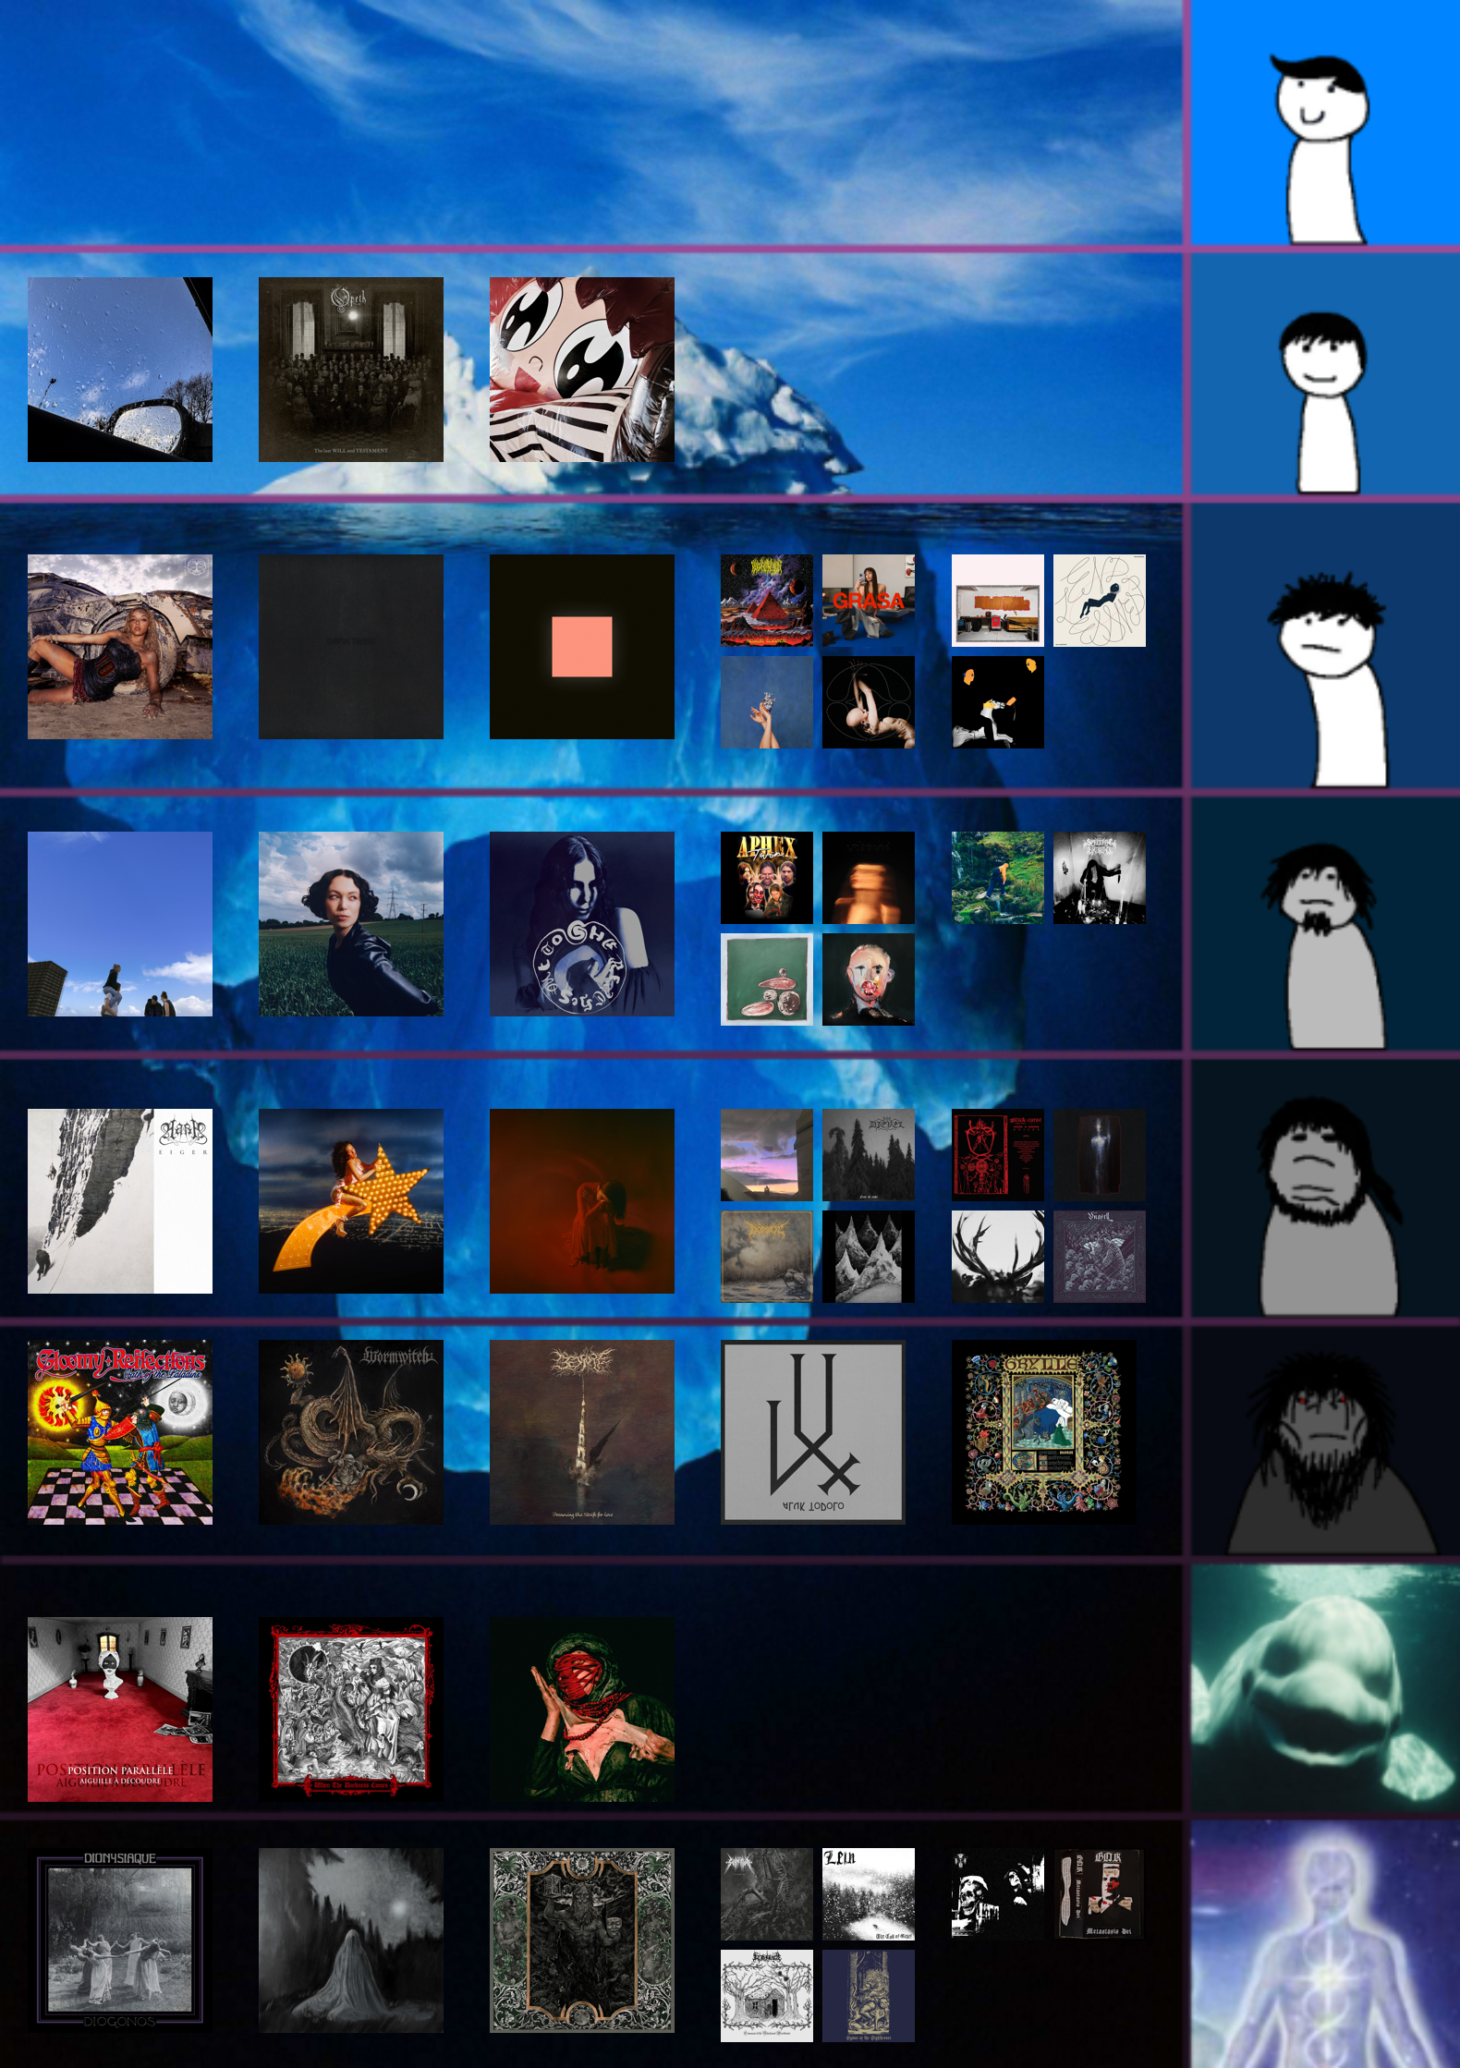
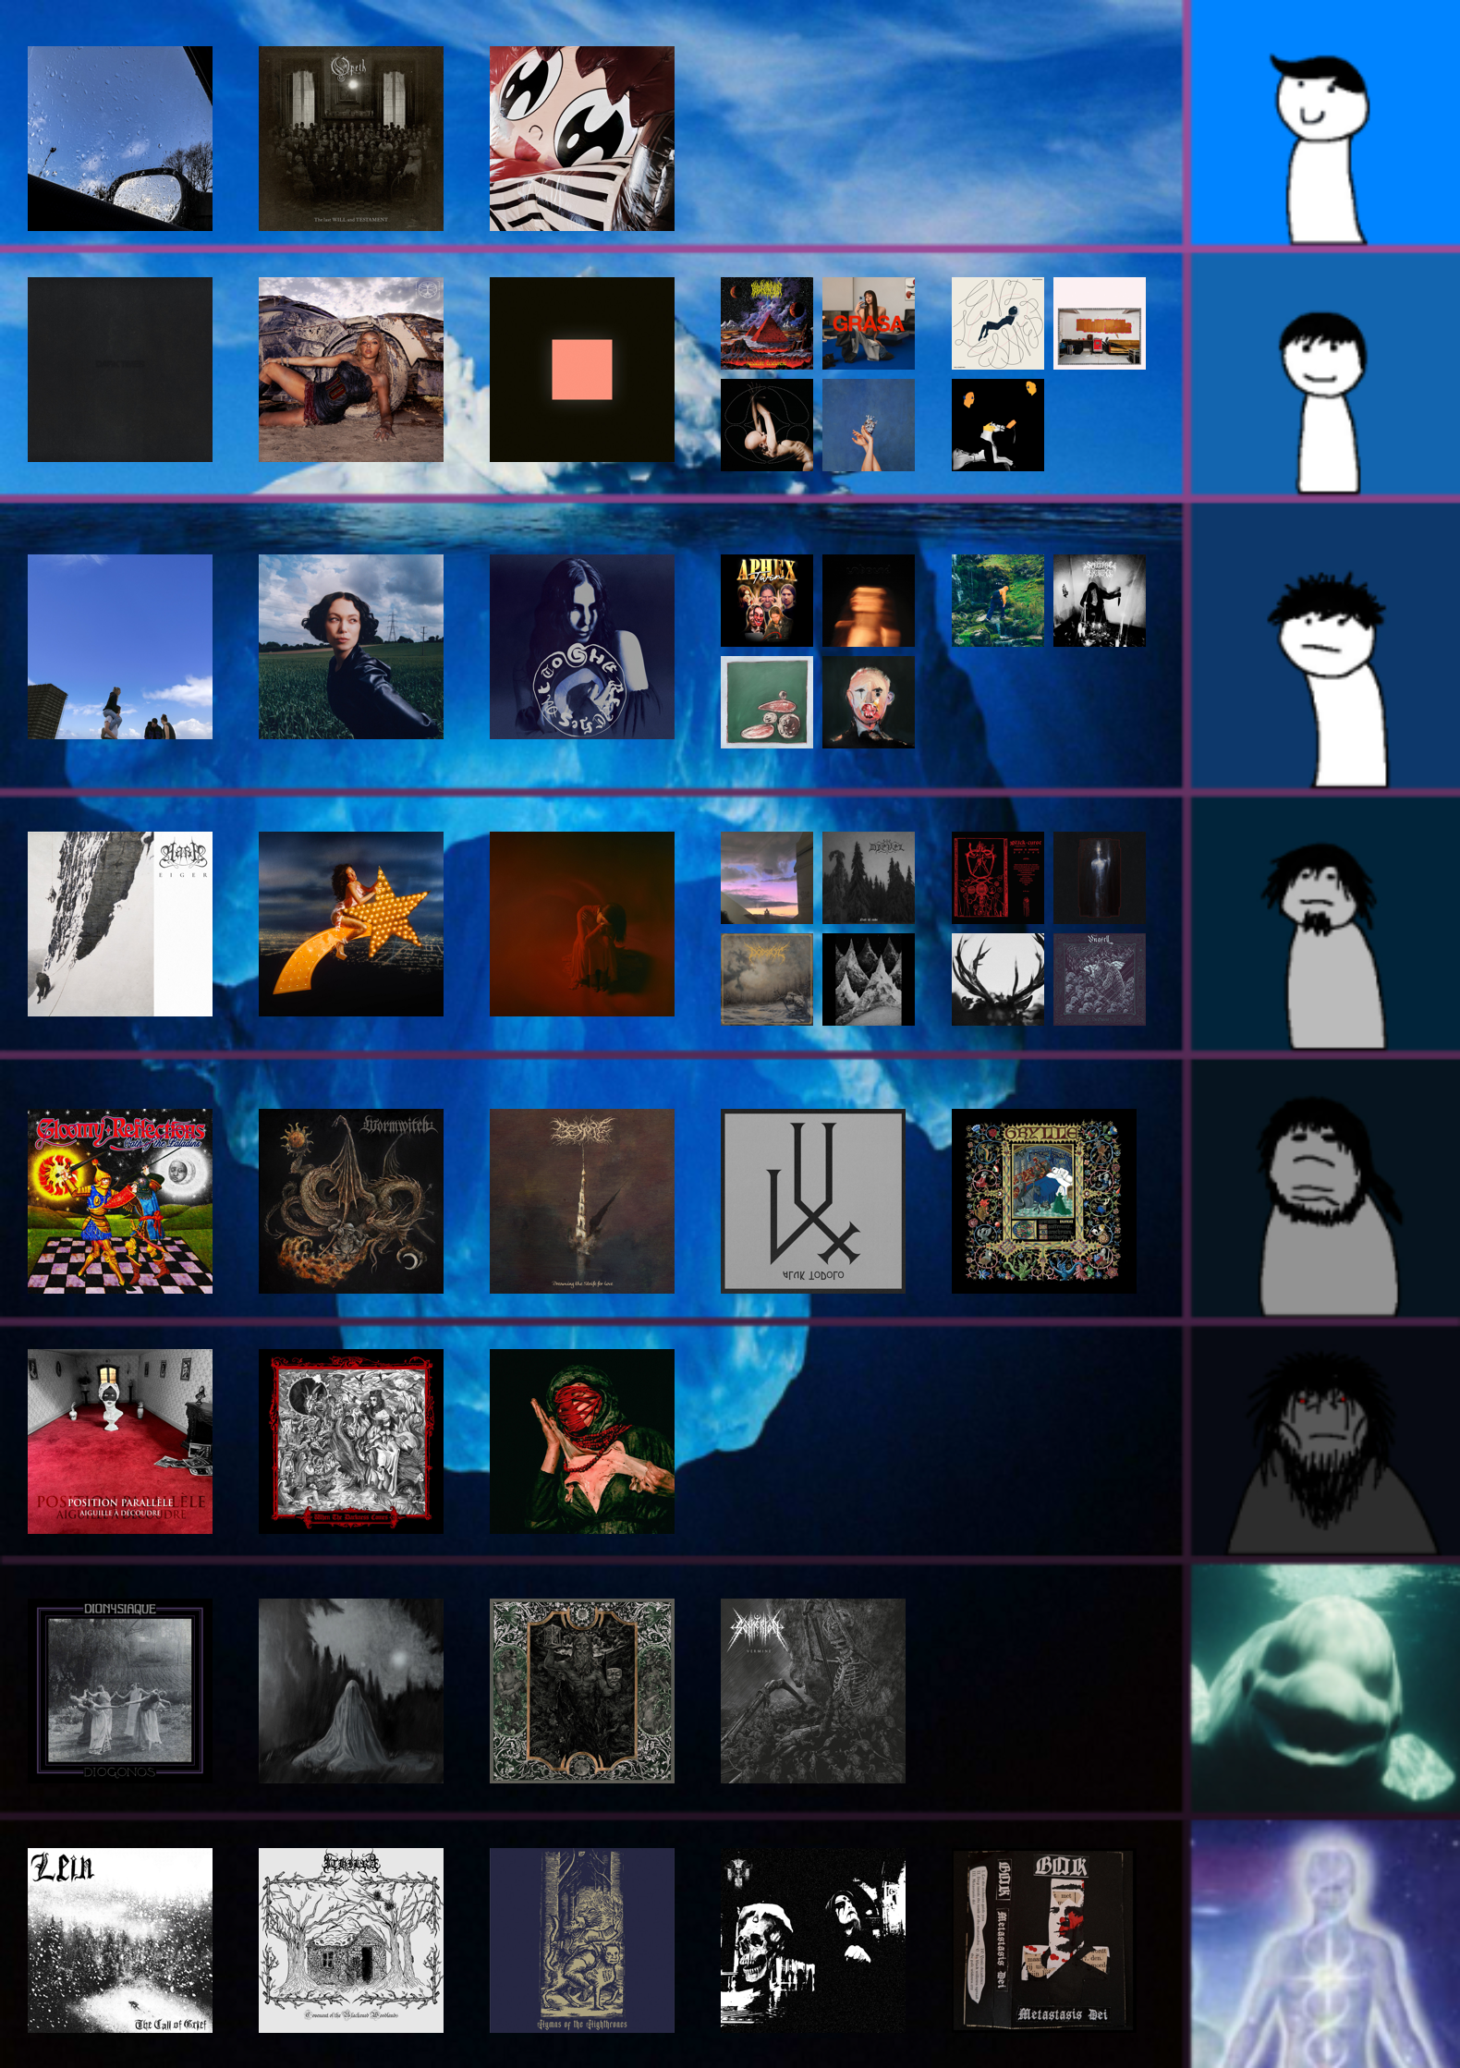
New tier threshold feature and better error handling

diff --git a/spotify_client.py b/spotify_client.py
@@ -3,17 +3,9 @@ import streamlit as st
 from spotipy.oauth2 import SpotifyClientCredentials
 import os
 from dotenv import load_dotenv
-
-TIER_THRESHOLDS: dict = {
-    1: 100,
-    2: 50,
-    3: 40,
-    4: 30,
-    5: 20,
-    6: 10,
-    7: 5,
-    8: 0
-}
+import re
+from urllib.parse import urlparse
+import time
 
 def fetch_spotify_credentials():
     """Retrieve Spotify API credentials from the environment variables."""
@@ -22,50 +14,100 @@ def fetch_spotify_credentials():
     client_secret = os.getenv("SPOTIFY_CLIENT_SECRET")
     if not client_id or not client_secret:
         raise ValueError("Missing Spotify API credentials. Please set SPOTIFY_CLIENT_ID and SPOTIFY_CLIENT_SECRET.")
-    return client_id, client_secret
+    return {"client_id": client_id, "client_secret": client_secret}
+
+def validate_playlist_url(playlist_url: str) -> bool:
+    parsed = urlparse(playlist_url)
+    return all([parsed.scheme, parsed.netloc]) and "spotify.com" in parsed.netloc
 
 @st.cache_data(show_spinner=False)
-def get_playlist_albums(playlist_url):
+def get_playlist_albums(playlist_url, TIER_THRESHOLDS, max_albums=100):
+    """Fetch and process playlist albums with improved error handling."""
+    if not validate_playlist_url(playlist_url):
+        st.warning("Invalid Spotify playlist URL.")
+        return None
+
     try:
+        credentials = fetch_spotify_credentials()
         auth_manager = SpotifyClientCredentials(
-            client_id=fetch_spotify_credentials()[0],
-            client_secret=fetch_spotify_credentials()[1]
+            client_id=credentials["client_id"],
+            client_secret=credentials["client_secret"]
         )
-        sp = spotipy.Spotify(auth_manager=auth_manager)
+        sp = spotipy.Spotify(auth_manager=auth_manager, requests_timeout=10)
         playlist_id = playlist_url.split('/')[-1].split('?')[0]
         
         if "?si" in playlist_id:
-            playlist_id = playlist_id.split("?")[0]
+            playlist_id = playlist_id.split("?si")[0]
         
-        # Fetch all tracks in the playlist
+        # Verify playlist exists and is accessible
+        try:
+            sp.playlist(playlist_id, fields="id")
+        except spotipy.exceptions.SpotifyException as e:
+            if e.http_status == 404:
+                st.warning("Playlist not found")
+            elif e.http_status == 403:
+                st.warning("Playlist is private or inaccessible")
+            return None
+
+        # Fetch tracks with rate limiting protection
         tracks_data = []
         results = sp.playlist_tracks(playlist_id, 
-                                     fields="items(track(album(name,images),popularity)),next", 
-                                     limit=100)
+                                   fields="items(track(album(name,images),popularity)),next", 
+                                   limit=100)
         tracks_data.extend(results["items"])
-        while results["next"]:
-            results = sp.next(results)
-            tracks_data.extend(results["items"])
+        
+        retry_count = 0
+        while results["next"] and retry_count < 3:
+            try:
+                time.sleep(0.1)  # Rate limiting protection
+                results = sp.next(results)
+                tracks_data.extend(results["items"])
+            except Exception as e:
+                retry_count += 1
+                if retry_count == 3:
+                    break
+                time.sleep(1)  # Wait longer between retries
         
         album_map = {}
         for item in tracks_data:
-            if item["track"]:
+            if len(album_map) >= max_albums:
+                break
+            if item.get("track") and item["track"].get("album"):
                 album_info = item["track"]["album"]
-                album_name = album_info["name"]
-                album_popularity = item["track"]["popularity"]
+                album_name = album_info.get("name", "Unknown Album")
+                album_popularity = item["track"].get("popularity", 0)
+                
                 if album_name not in album_map:
+                    images = album_info.get("images", [])
+                    image_url = images[0].get("url") if images else None
                     album_map[album_name] = {
-                        "image_url": album_info["images"][0]["url"] if album_info["images"] else None,
+                        "image_url": image_url,
                         "popularity_scores": []
                     }
                 album_map[album_name]["popularity_scores"].append(album_popularity)
         
+        if not album_map:
+            st.warning("No valid albums found in playlist")
+            return None
+
         for album_name, data in album_map.items():
-            avg_popularity = sum(data["popularity_scores"]) / len(data["popularity_scores"])
+            scores = data["popularity_scores"]
+            avg_popularity = sum(scores) / len(scores)
             data["tier"] = next(
-                tier for tier, threshold in TIER_THRESHOLDS.items() if avg_popularity >= threshold
+                (tier for tier, threshold in TIER_THRESHOLDS.items() 
+                 if avg_popularity >= threshold),
+                max(TIER_THRESHOLDS.keys())  # Default to lowest tier
             )
-            data["avg_popularity"] = avg_popularity  # Add average popularity
+            data["avg_popularity"] = avg_popularity
+
         return album_map
-    except Exception:
+
+    except ValueError as e:
+        st.warning("Issue with Spotify API credentials")
+        return None
+    except spotipy.exceptions.SpotifyException as e:
+        st.warning(f"Spotify API error: {str(e)}")
+        return None
+    except Exception as e:
+        st.warning(f"Unexpected error in get_playlist_albums: {str(e)}")
         return None

diff --git a/visualizer.py b/visualizer.py
@@ -2,10 +2,20 @@ from PIL import Image, ImageDraw
 import requests
 from io import BytesIO
 import streamlit as st
+import logging
+import os
 
 @st.cache_data(show_spinner=False)
 def create_iceberg_visual(albums_data):
-    base_img = Image.open("iceberg_base.png").convert("RGBA")
+    try:
+        if not os.path.exists("iceberg_base.png"):
+            logging.error("Base iceberg image not found.")
+            return None
+        base_img = Image.open("iceberg_base.png").convert("RGBA")
+    except Exception as e:
+        logging.error(f"Error opening base image: {e}")
+        return None
+
     draw = ImageDraw.Draw(base_img)
     tier_positions = {
         1: (30, 50),
@@ -13,8 +23,8 @@ def create_iceberg_visual(albums_data):
         3: (30, 600),
         4: (30, 900),
         5: (30, 1200),
-        6: (30, 1450),
-        7: (30, 1750),
+        6: (30, 1460),
+        7: (30, 1730),
         8: (30, 2000)
     }
     x_offset_increment = 250
@@ -36,30 +46,29 @@ def create_iceberg_visual(albums_data):
         for index, data in enumerate(albums):
             if index < 11:
                 if data["image_url"]:
-                    response = requests.get(data["image_url"])
-                    album_img = Image.open(BytesIO(response.content))
-                    
-                    if len(albums) > 5:
-                        if index < 3:
-                            resized_img = album_img.resize(standard_size)
-                            base_img.paste(resized_img, (pos_x, pos_y), resized_img.convert("RGBA"))
-                            pos_x += x_offset_increment
-                        elif 3 <= index < 7:
-                            row = (index - 3) // 2
-                            col = (index - 3) % 2
-                            resized_img = album_img.resize(half_size)
-                            new_x = pos_x + col * (half_size[0] + 10)
-                            new_y = pos_y + row * (half_size[1] + 10)
-                            base_img.paste(resized_img, (new_x, new_y), resized_img.convert("RGBA"))
-                        elif 7 <= index < 11:
-                            row = (index - 7) // 2
-                            col = (index - 7) % 2
-                            resized_img = album_img.resize(half_size)
-                            new_x = pos_x + col * (half_size[0] + 10) + 250
-                            new_y = pos_y + row * (half_size[1] + 10)
-                            base_img.paste(resized_img, (new_x, new_y), resized_img.convert("RGBA"))
-                    else:
-                        resized_img = album_img.resize(standard_size)
-                        base_img.paste(resized_img, (pos_x, pos_y), resized_img.convert("RGBA"))
-                        pos_x += x_offset_increment   
+                    try:
+                        response = requests.get(data["image_url"], timeout=5)
+                        response.raise_for_status()
+                        with Image.open(BytesIO(response.content)) as album_img:
+                            resize_cond = (len(albums) <= 5 or index < 3)
+                            resized_img = album_img.resize(standard_size if resize_cond else half_size)
+                            if len(albums) > 5:
+                                if index < 3:
+                                    base_img.paste(resized_img, (pos_x, pos_y), resized_img.convert("RGBA"))
+                                    pos_x += x_offset_increment
+                                elif 3 <= index < 7:
+                                    row, col = divmod(index - 3, 2)
+                                    new_x, new_y = pos_x + col * (half_size[0] + 10), pos_y + row * (half_size[1] + 10)
+                                    base_img.paste(resized_img, (new_x, new_y), resized_img.convert("RGBA"))
+                                elif 7 <= index < 11:
+                                    row, col = divmod(index - 7, 2)
+                                    new_x, new_y = pos_x + col * (half_size[0] + 10) + 250, pos_y + row * (half_size[1] + 10)
+                                    base_img.paste(resized_img, (new_x, new_y), resized_img.convert("RGBA"))
+                            else:
+                                base_img.paste(resized_img, (pos_x, pos_y), resized_img.convert("RGBA"))
+                                pos_x += x_offset_increment
+                    except Exception as e:
+                        logging.error(f"Error fetching or opening album image: {e}")
+                        st.warning(f"Error fetching or opening album image. Skipping album: {data['album_name']}")
+                        continue
     return base_img

diff --git a/app.py b/app.py
@@ -1,21 +1,67 @@
 import streamlit as st
+import pandas as pd
 from spotify_client import get_playlist_albums
 from visualizer import create_iceberg_visual
+
+TIER_THRESHOLDS: dict = {
+    1: 50,
+    2: 40,
+    3: 30,
+    4: 20,
+    5: 10,
+    6: 5,
+    7: 2,
+    8: 0
+}
 
 def main():
     st.title("Spotify Iceberg Visualiser")
     st.write("Enter a Spotify playlist URL to see an iceberg visualisation of album popularity.")
-    st.caption("_Note: Tiers are capped at 11 items each._")
+    tier_frame = pd.DataFrame({"threshold": list(TIER_THRESHOLDS.values())}).T
+    tier_frame.columns = [f"Tier {i}" for i in range(1, len(tier_frame.columns) + 1)]
+
+    with st.expander("Tier threshold definition (optional)", expanded=False):
+        st.caption("""
+        Edit the lower limit threshold values for each tier. 
+        Album popularity is a score between 0 and 100.
+        """
+        )
+        tier_frame = st.data_editor(tier_frame, hide_index=True)
+        for tier, threshold in zip(tier_frame.columns, tier_frame.iloc[0]):
+            TIER_THRESHOLDS[int(tier.replace("Tier ", ""))] = threshold
+        st.caption("""_Note: Tiers are capped at 11 items each._""")
 
     playlist_url = st.text_input("Playlist URL:")
 
     if st.button("Submit", key="submit_button"):
+        if not all(isinstance(value, int) for value in TIER_THRESHOLDS.values()):
+            st.warning("Tier thresholds must contain integer values.")
+            return
+
+        if not all(0 <= value <= 100 for value in TIER_THRESHOLDS.values()):
+            st.warning("Tier thresholds must be a value between 0 and 100.")
+            return
+
+        if not all(TIER_THRESHOLDS[idx+1] > TIER_THRESHOLDS[idx + 2] for idx in range(len(TIER_THRESHOLDS) - 2)):
+            st.warning("Tier thresholds must be in descending order.")
+            return
+
+        if not playlist_url:
+            st.warning("Please provide a Spotify playlist URL.")
+            return
+
         with st.spinner(f"Fetching album data..."):
-            albums_data = get_playlist_albums(playlist_url)
+            albums_data = get_playlist_albums(playlist_url, TIER_THRESHOLDS)
             if albums_data is not None:
+                if len(albums_data) >= 100:
+                    st.warning("""
+                    Your playlist has more than 100 unique albums. 
+                    Only the first 100 albums are visualised.
+                    """
+                    )
                 st.write("")
                 st.session_state["iceberg_image"] = create_iceberg_visual(albums_data)
-                st.image(st.session_state["iceberg_image"], caption="Album Popularity Iceberg")
+                st.image(st.session_state["iceberg_image"], caption="Save iceberg image with right-click")
             else:
                 st.warning("Issue fetching album data. Please check the playlist URL or try again later.")
 
